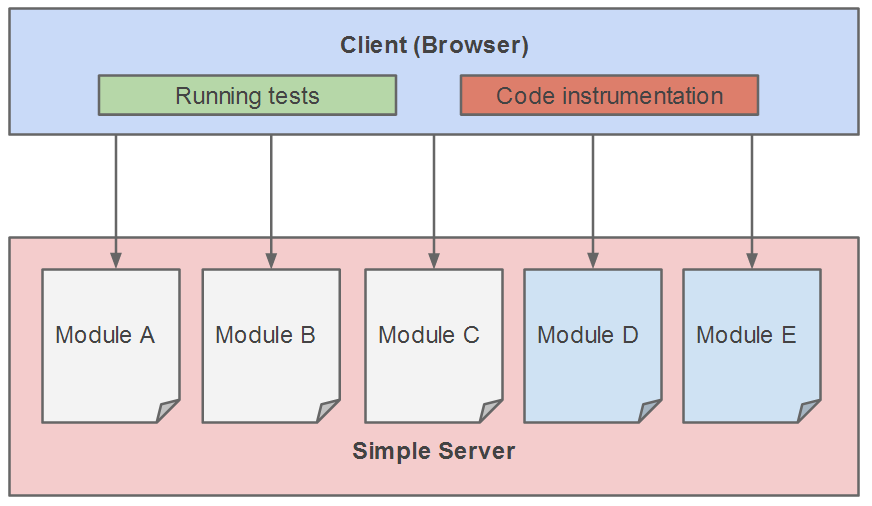
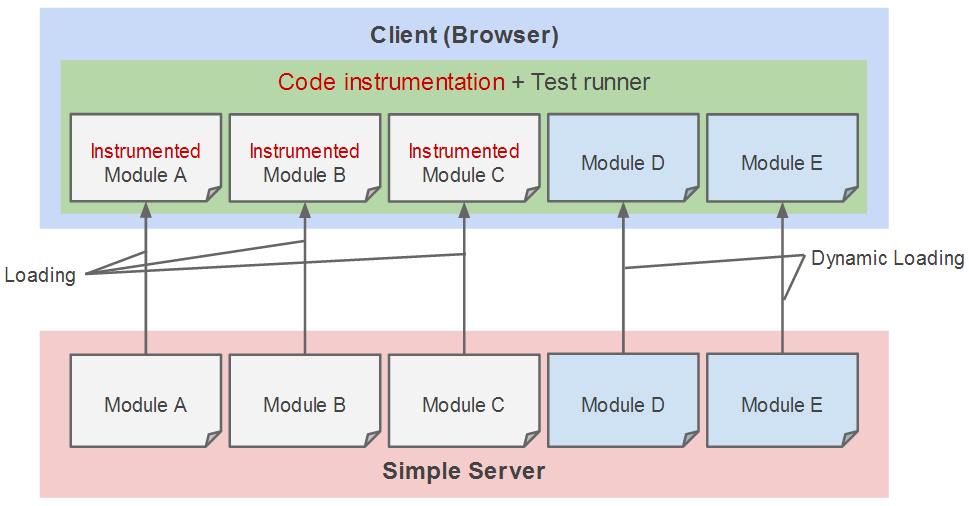
Update mechanism 1 & 2 descriptions

diff --git a/index.html b/index.html
@@ -183,26 +183,50 @@
           <section>
             <h2>Code Coverage Mechanism 1</h2>
             <img src="assets/mechanism1-client-server.png" alt=""></img>
-            <p>Launch on a sample server</p>
+            <p>Code instrumenting on browser</p>
+          </section>
+
+          <section>
+            <h2>Mechanism 1</h2>
+            <ul>
+              <li class="fragment"><p>Pros:</p></li>
+              <ul>
+                <li class="fragment"><p>Quite friendly to novice developers</p></li>
+                <li class="fragment"><p>No changes needed to source files, and only minor changes needed to test runners</p></li>
+                <li class="fragment"><p>Pretty easy to replace with other server</p></li>
+              </ul>
+              <li class="fragment"><p>Cons:</p></li>
+              <ul>
+                <li class="fragment"><p>Not support to dynamic loading script coverage</p></li>
+              </ul>
+            </ul>
           </section>
 
           <section>
             <h2>Code Coverage Mechanism 2</h2>
             <img src="assets/code-coverage-mechanism2.png" alt="code coverage mechanism 2"></img>
+            <p>Need to use customized coverage server</p>
           </section>
 
           <section>
             <h2>Code Coverage Mechanism 2</h2>
             <img src="assets/mechanism2-client-server.png" alt="browser test runner"></img>
-            <p>Need to use customized coverage server (JSCover)</p>
+            <p>Code instrumenting on coverage server</p>
           </section>
 
           <section>
-            <h2>Disadvantage of Mechanism 2</h2>
+            <h2>Mechanism 2</h2>
             <ul>
-              <li class="fragment"><p>Need additional server support</p></li>
-              <li class="fragment"><p>Server environment is not always Javascript</p></li>
-              <li class="fragment"><p>Setup environment is not convenient than Mechanism 1</p></li>
+              <li class="fragment"><p>Pros:</p></li>
+              <ul>
+                <li class="fragment"><p>The full coverage support including dynamic loading script</p></li>
+                <li class="fragment"><p>No changes needed to source files</p></li>
+              </ul>
+              <li class="fragment"><p>Cons:</p></li>
+              <ul>
+                <li class="fragment"><p>Hard to integrate coverage server and other server</p></li>
+                <li class="fragment"><p>Inconvenient to install and configure than mechanism 1</p></li>
+              </ul>
             </ul>
           </section>
 
